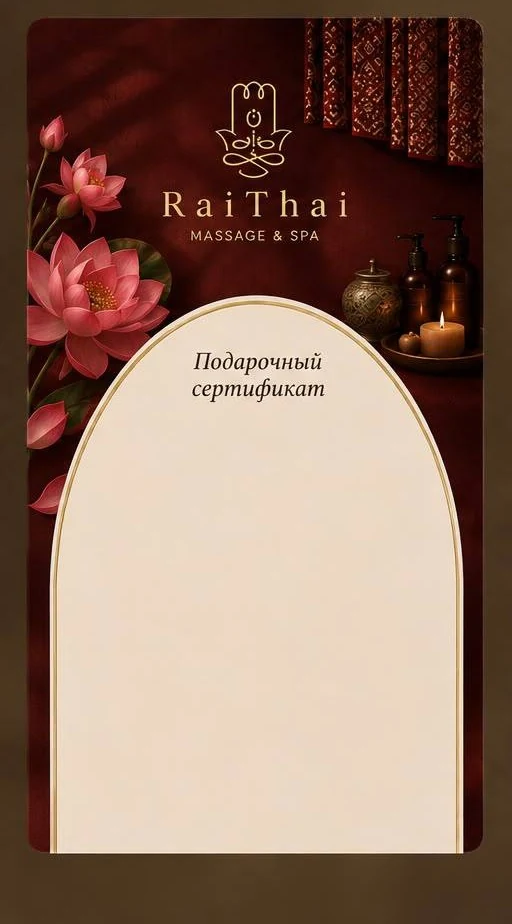
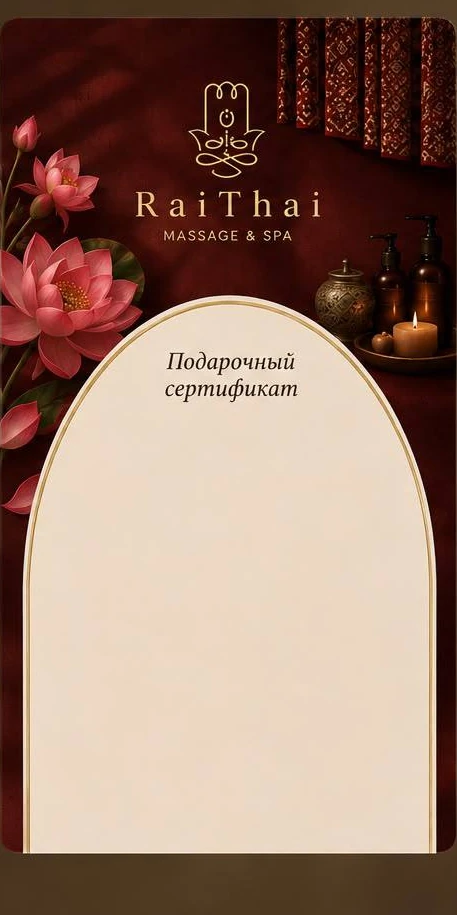
fix: ровное и одинаковое кадрирование трёх дизайнов сертификата
Причина неровной обрезки: экспортировал три фото простыми равными
третями исходного коллажа, а сами карточки в коллаже расположены не
идеально по центру своих третей — у каждой оставалось разное по ширине
тёмное поле фона коллажа по краям. Плюс контейнер карточки не имел явной
ширины (только aspect-ratio) внутри <button>, из-за чего размер мог
считаться нестабильно.

- пересобрал все три файла из исходного коллажа: границы каждой карточки
  (не просто трети холста) сняты пипеткой по цвету, общая ширина одна на
  все три (457×915) — тёмного поля коллажа в кадре больше нет
- координаты безопасной зоны под текст в арке пересчитаны под новые файлы
  тем же способом, что и раньше (устойчивый поиск границ кремовой арки,
  с защитой от одиночных шумовых пикселей вроде блика на цветке)
- CertificateCard: явный w-full на контейнере карточки (аспект без явной
  ширины внутри <button> — ненадёжная конструкция), object-fit: cover +
  object-position: center на фото, aspect-ratio вынесен в общую константу
  CERT_DESIGN_ASPECT вместо захардкоженных чисел в двух местах

Проверено: все три карточки на шаге выбора дизайна — 313×627px, точное
совпадение размера и пропорций; 375px без горизонтального скролла.

Changed region(s): [[0.0, 0.0, 1.0, 0.9486], [0.3982, 0.306, 0.6127, 0.3366], [0.1838, 0.0612, 0.2144, 0.1224]]

diff --git a/src/components/CertificateCard.tsx b/src/components/CertificateCard.tsx
@@ -1,4 +1,4 @@
-import type { CertificateDesign } from "@/data/catalog";
+import { CERT_DESIGN_ASPECT, type CertificateDesign } from "@/data/catalog";
 import { useLanguage } from "@/i18n/LanguageContext";
 
 /**
@@ -45,19 +45,25 @@ export function CertificateCard({
 
   return (
     <div
-      className="relative overflow-hidden rounded-2xl"
-      style={{ aspectRatio: "512 / 924", boxShadow: "0 24px 60px -30px rgba(0,0,0,0.75)" }}
+      // w-full — обязателен: без явной ширины блок с aspect-ratio внутри
+      // <button> (у него нет собственной ширины) считает размеры непредсказуемо,
+      // из-за чего три карточки на шаге выбора дизайна могли обрезаться
+      // по-разному. С явной шириной все три получают одинаковый бокс.
+      className="relative w-full overflow-hidden rounded-2xl"
+      style={{ aspectRatio: CERT_DESIGN_ASPECT, boxShadow: "0 24px 60px -30px rgba(0,0,0,0.75)" }}
     >
       {/* Логотип, рамка и сама арка уже впечатаны в фото заказчиком — карточке
-          больше не нужно рисовать текстуру/вуаль/мотив программно поверх. */}
+          больше не нужно рисовать текстуру/вуаль/мотив программно поверх.
+          object-fit: cover + object-position: center держат кадрирование
+          одинаковым на всех трёх, пропорции фото не искажаются. */}
       <img
         src={design.photo}
         alt=""
         aria-hidden="true"
         loading="lazy"
-        width={512}
-        height={924}
-        className="absolute inset-0 h-full w-full object-cover"
+        width={457}
+        height={915}
+        className="absolute inset-0 h-full w-full object-cover object-center"
       />
 
       {/* Текстовый блок внутри арки — координаты свои под каждое фото

diff --git a/src/data/catalog.ts b/src/data/catalog.ts
@@ -530,24 +530,30 @@ export type CertificateDesign = {
   archBox: { top: number; bottom: number; centerX: number; width: number };
 };
 
+/**
+ * 457×915 — общий для всех трёх файлов размер после переобрезки (см.
+ * CertificateCard: `aspectRatio` карточки завязан на эти же числа).
+ */
+export const CERT_DESIGN_ASPECT = "457 / 915";
+
 export const designs: CertificateDesign[] = [
   {
     id: "standard",
     title: "Стандартный",
     photo: standardDesignPhoto,
-    archBox: { top: 41, bottom: 76, centerX: 54, width: 50 },
+    archBox: { top: 41, bottom: 75, centerX: 52, width: 50 },
   },
   {
     id: "for-her",
     title: "Для неё",
     photo: forHerDesignPhoto,
-    archBox: { top: 41, bottom: 76, centerX: 50, width: 50 },
+    archBox: { top: 41, bottom: 75, centerX: 50, width: 50 },
   },
   {
     id: "for-him",
     title: "Для него",
     photo: forHimDesignPhoto,
-    archBox: { top: 41, bottom: 76, centerX: 44, width: 50 },
+    archBox: { top: 41, bottom: 75, centerX: 48, width: 50 },
   },
 ];
 

diff --git a/src/routes/certificate.tsx b/src/routes/certificate.tsx
@@ -384,7 +384,7 @@ function CertificateFlow() {
                     key={d.id}
                     type="button"
                     onClick={() => setDesignId(d.id)}
-                    className={`border p-1.5 text-left transition-colors ${designId === d.id ? "border-gold" : "border-border/40 hover:border-gold/60"}`}
+                    className={`w-full border p-1.5 text-left transition-colors ${designId === d.id ? "border-gold" : "border-border/40 hover:border-gold/60"}`}
                   >
                     <CertificateCard design={d} valueLabel={valueLabel} items={cardItems} compact />
                     <span
